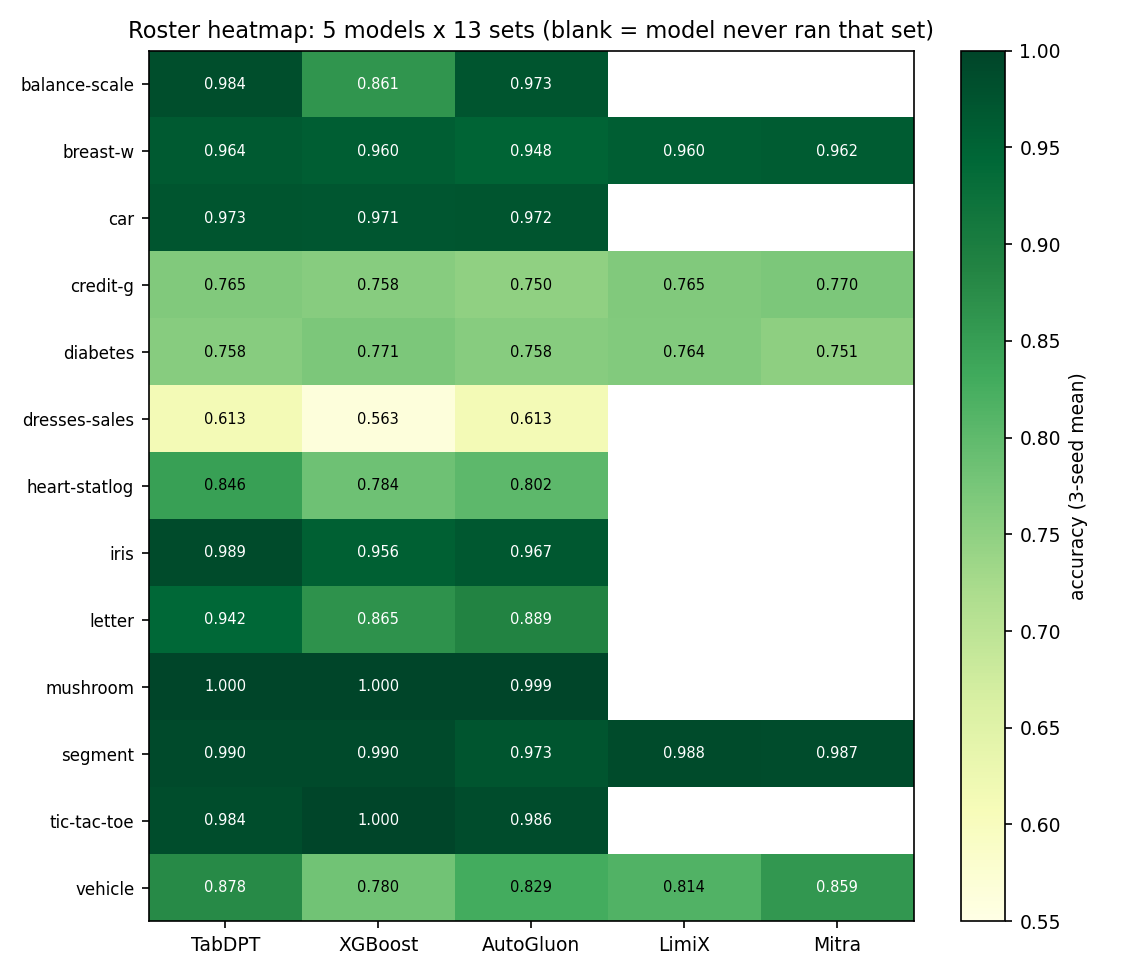
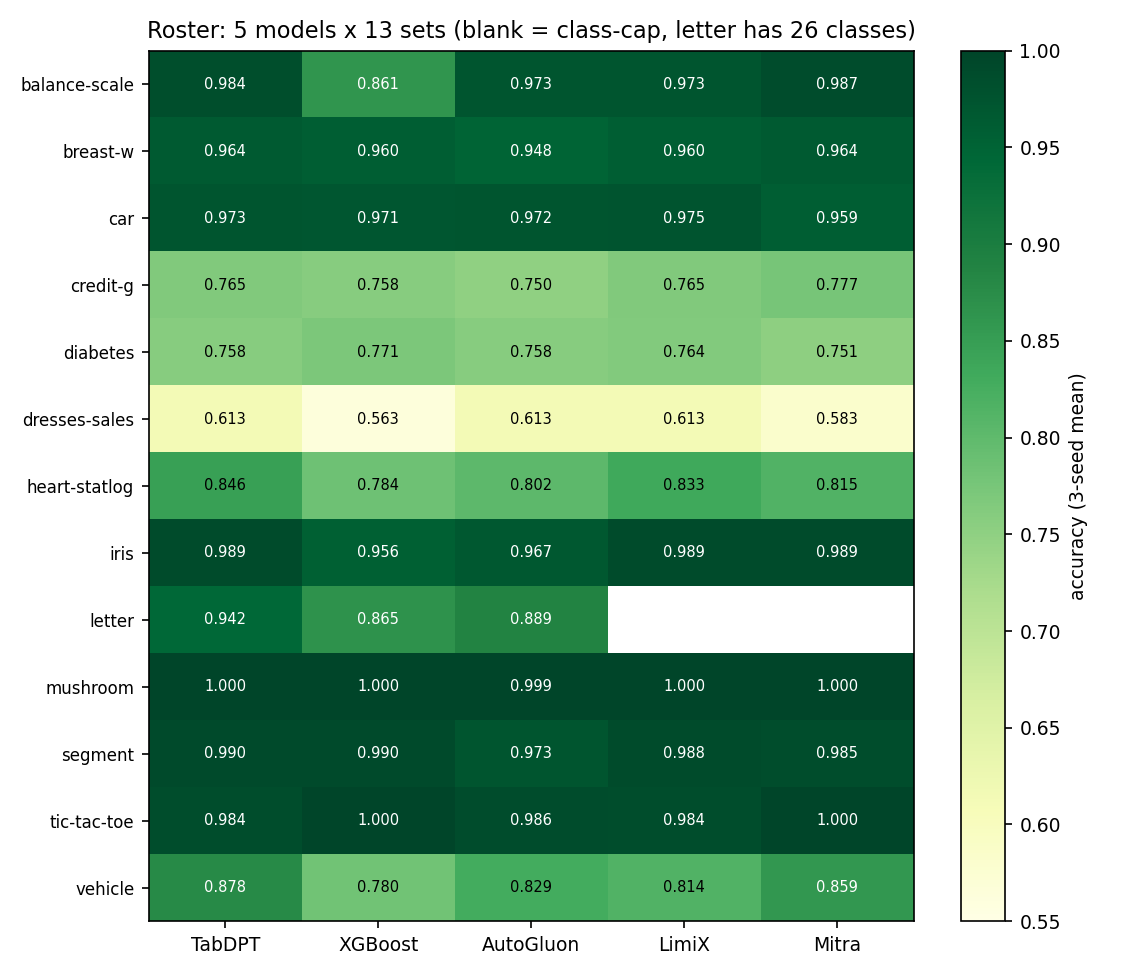
Complete roster: LimiX + Mitra full cls CSVs (12/13 each, letter class-capped); refreshed heatmap + all figures

diff --git a/scripts/plots_new.py b/scripts/plots_new.py
@@ -110,8 +110,8 @@ fig.savefig(os.path.join(F, "probes", "dilution_lines.png"))
 td = pd.read_csv(os.path.join(R, "roster", "tabdpt_roster.csv"))
 xgb = pd.read_csv(os.path.join(R, "xgboost", "xgb_roster.csv"))
 ag = pd.read_csv(os.path.join(R, "ceiling", "ag_ceiling.csv"))
-lx = pd.read_csv(os.path.join(R, "roster", "limix_5way.csv"))
-mi = pd.read_csv(os.path.join(R, "roster", "mitra_5way.csv"))
+lx = pd.read_csv(os.path.join(R, "roster", "limix_full.csv"))
+mi = pd.read_csv(os.path.join(R, "roster", "mitra_full.csv"))
 models = [("TabDPT", td), ("XGBoost", xgb), ("AutoGluon", ag), ("LimiX", lx), ("Mitra", mi)]
 acc = td[td["metric"] == "acc"].groupby("dataset")["score"].mean()
 sets = list(acc.index)
@@ -133,7 +133,7 @@ for i in range(len(sets)):
             ax.text(j, i, f"{mat[i, j]:.3f}", ha="center", va="center", fontsize=7,
                     color="white" if mat[i, j] > 0.85 else "black")
 fig.colorbar(im, ax=ax, label="accuracy (3-seed mean)")
-ax.set_title("Roster heatmap: 5 models x 13 sets (blank = model never ran that set)")
+ax.set_title("Roster: 5 models x 13 sets (blank = class-cap, letter has 26 classes)")
 fig.tight_layout()
 fig.savefig(os.path.join(F, "roster", "roster_heatmap.png"))
 print("roster_heatmap.png")
